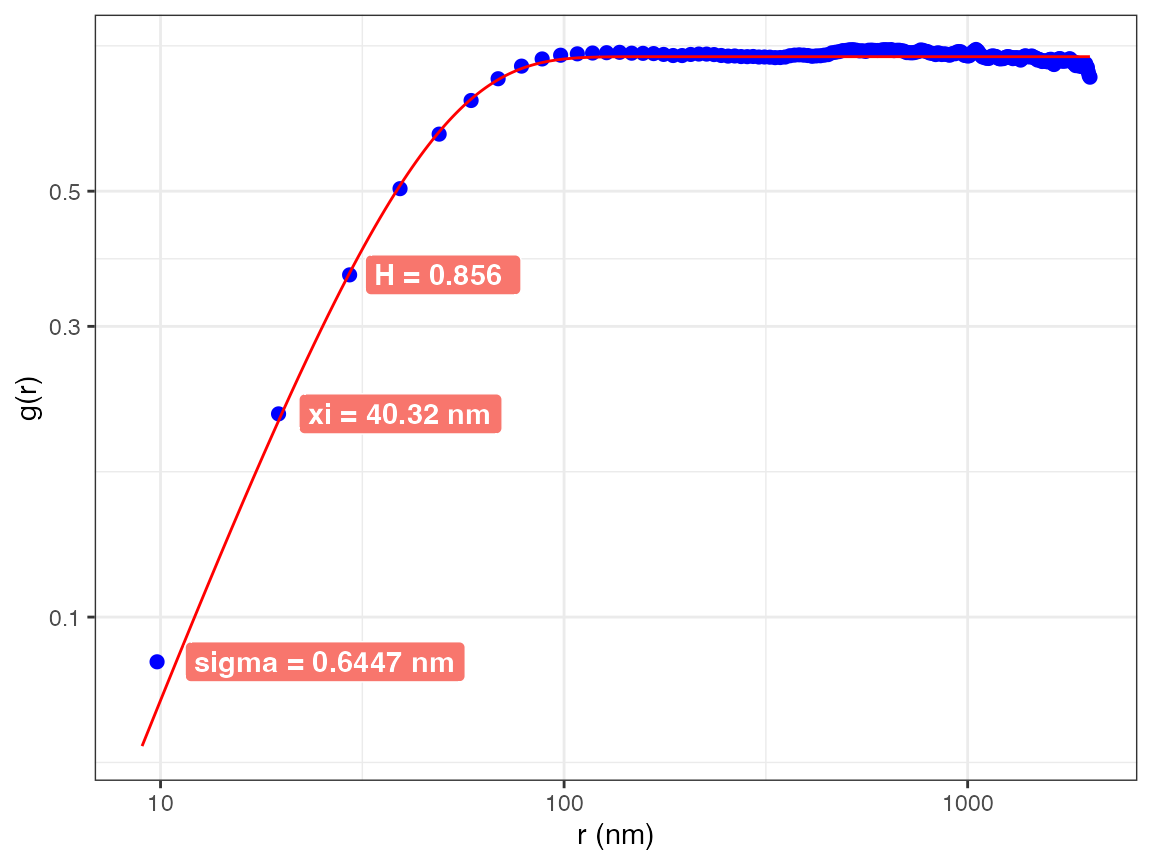
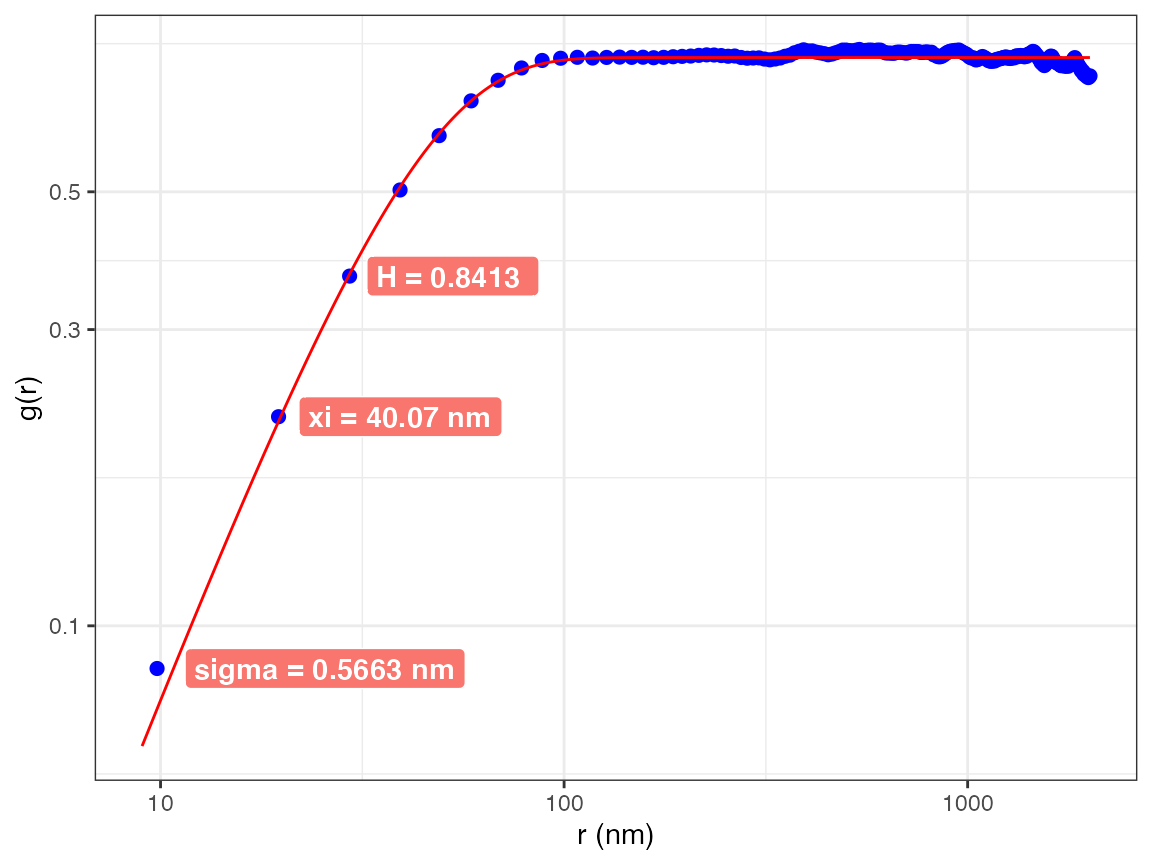
improve HHCF

diff --git a/docs/reference/get.Hsd.html b/docs/reference/get.Hsd.html
@@ -1,5 +1,5 @@
 <!DOCTYPE html>
-<!-- Generated by pkgdown: do not edit by hand --><html lang="en"><head><meta http-equiv="Content-Type" content="text/html; charset=UTF-8"><meta charset="utf-8"><meta http-equiv="X-UA-Compatible" content="IE=edge"><meta name="viewport" content="width=device-width, initial-scale=1.0"><title>computes the standard deviation in height Hsd — get.Hsd • nanoAFMr</title><!-- favicons --><link rel="icon" type="image/png" sizes="16x16" href="../favicon-16x16.png"><link rel="icon" type="image/png" sizes="32x32" href="../favicon-32x32.png"><link rel="apple-touch-icon" type="image/png" sizes="180x180" href="../apple-touch-icon.png"><link rel="apple-touch-icon" type="image/png" sizes="120x120" href="../apple-touch-icon-120x120.png"><link rel="apple-touch-icon" type="image/png" sizes="76x76" href="../apple-touch-icon-76x76.png"><link rel="apple-touch-icon" type="image/png" sizes="60x60" href="../apple-touch-icon-60x60.png"><!-- jquery --><script src="https://cdnjs.cloudflare.com/ajax/libs/jquery/3.4.1/jquery.min.js" integrity="sha256-CSXorXvZcTkaix6Yvo6HppcZGetbYMGWSFlBw8HfCJo=" crossorigin="anonymous"></script><!-- Bootstrap --><link rel="stylesheet" href="https://cdnjs.cloudflare.com/ajax/libs/twitter-bootstrap/3.4.1/css/bootstrap.min.css" integrity="sha256-bZLfwXAP04zRMK2BjiO8iu9pf4FbLqX6zitd+tIvLhE=" crossorigin="anonymous"><script src="https://cdnjs.cloudflare.com/ajax/libs/twitter-bootstrap/3.4.1/js/bootstrap.min.js" integrity="sha256-nuL8/2cJ5NDSSwnKD8VqreErSWHtnEP9E7AySL+1ev4=" crossorigin="anonymous"></script><!-- bootstrap-toc --><link rel="stylesheet" href="../bootstrap-toc.css"><script src="../bootstrap-toc.js"></script><!-- Font Awesome icons --><link rel="stylesheet" href="https://cdnjs.cloudflare.com/ajax/libs/font-awesome/5.12.1/css/all.min.css" integrity="sha256-mmgLkCYLUQbXn0B1SRqzHar6dCnv9oZFPEC1g1cwlkk=" crossorigin="anonymous"><link rel="stylesheet" href="https://cdnjs.cloudflare.com/ajax/libs/font-awesome/5.12.1/css/v4-shims.min.css" integrity="sha256-wZjR52fzng1pJHwx4aV2AO3yyTOXrcDW7jBpJtTwVxw=" crossorigin="anonymous"><!-- clipboard.js --><script src="https://cdnjs.cloudflare.com/ajax/libs/clipboard.js/2.0.6/clipboard.min.js" integrity="sha256-inc5kl9MA1hkeYUt+EC3BhlIgyp/2jDIyBLS6k3UxPI=" crossorigin="anonymous"></script><!-- headroom.js --><script src="https://cdnjs.cloudflare.com/ajax/libs/headroom/0.11.0/headroom.min.js" integrity="sha256-AsUX4SJE1+yuDu5+mAVzJbuYNPHj/WroHuZ8Ir/CkE0=" crossorigin="anonymous"></script><script src="https://cdnjs.cloudflare.com/ajax/libs/headroom/0.11.0/jQuery.headroom.min.js" integrity="sha256-ZX/yNShbjqsohH1k95liqY9Gd8uOiE1S4vZc+9KQ1K4=" crossorigin="anonymous"></script><!-- pkgdown --><link href="../pkgdown.css" rel="stylesheet"><script src="../pkgdown.js"></script><meta property="og:title" content="computes the standard deviation in height Hsd — get.Hsd"><meta property="og:description" content="computes the standard deviation in height Hsd"><!-- mathjax --><script src="https://cdnjs.cloudflare.com/ajax/libs/mathjax/2.7.5/MathJax.js" integrity="sha256-nvJJv9wWKEm88qvoQl9ekL2J+k/RWIsaSScxxlsrv8k=" crossorigin="anonymous"></script><script src="https://cdnjs.cloudflare.com/ajax/libs/mathjax/2.7.5/config/TeX-AMS-MML_HTMLorMML.js" integrity="sha256-84DKXVJXs0/F8OTMzX4UR909+jtl4G7SPypPavF+GfA=" crossorigin="anonymous"></script><!--[if lt IE 9]>
+<!-- Generated by pkgdown: do not edit by hand --><html lang="en"><head><meta http-equiv="Content-Type" content="text/html; charset=UTF-8"><meta charset="utf-8"><meta http-equiv="X-UA-Compatible" content="IE=edge"><meta name="viewport" content="width=device-width, initial-scale=1.0"><title>Computes the standard deviation in height Hsd — get.Hsd • nanoAFMr</title><!-- favicons --><link rel="icon" type="image/png" sizes="16x16" href="../favicon-16x16.png"><link rel="icon" type="image/png" sizes="32x32" href="../favicon-32x32.png"><link rel="apple-touch-icon" type="image/png" sizes="180x180" href="../apple-touch-icon.png"><link rel="apple-touch-icon" type="image/png" sizes="120x120" href="../apple-touch-icon-120x120.png"><link rel="apple-touch-icon" type="image/png" sizes="76x76" href="../apple-touch-icon-76x76.png"><link rel="apple-touch-icon" type="image/png" sizes="60x60" href="../apple-touch-icon-60x60.png"><!-- jquery --><script src="https://cdnjs.cloudflare.com/ajax/libs/jquery/3.4.1/jquery.min.js" integrity="sha256-CSXorXvZcTkaix6Yvo6HppcZGetbYMGWSFlBw8HfCJo=" crossorigin="anonymous"></script><!-- Bootstrap --><link rel="stylesheet" href="https://cdnjs.cloudflare.com/ajax/libs/twitter-bootstrap/3.4.1/css/bootstrap.min.css" integrity="sha256-bZLfwXAP04zRMK2BjiO8iu9pf4FbLqX6zitd+tIvLhE=" crossorigin="anonymous"><script src="https://cdnjs.cloudflare.com/ajax/libs/twitter-bootstrap/3.4.1/js/bootstrap.min.js" integrity="sha256-nuL8/2cJ5NDSSwnKD8VqreErSWHtnEP9E7AySL+1ev4=" crossorigin="anonymous"></script><!-- bootstrap-toc --><link rel="stylesheet" href="../bootstrap-toc.css"><script src="../bootstrap-toc.js"></script><!-- Font Awesome icons --><link rel="stylesheet" href="https://cdnjs.cloudflare.com/ajax/libs/font-awesome/5.12.1/css/all.min.css" integrity="sha256-mmgLkCYLUQbXn0B1SRqzHar6dCnv9oZFPEC1g1cwlkk=" crossorigin="anonymous"><link rel="stylesheet" href="https://cdnjs.cloudflare.com/ajax/libs/font-awesome/5.12.1/css/v4-shims.min.css" integrity="sha256-wZjR52fzng1pJHwx4aV2AO3yyTOXrcDW7jBpJtTwVxw=" crossorigin="anonymous"><!-- clipboard.js --><script src="https://cdnjs.cloudflare.com/ajax/libs/clipboard.js/2.0.6/clipboard.min.js" integrity="sha256-inc5kl9MA1hkeYUt+EC3BhlIgyp/2jDIyBLS6k3UxPI=" crossorigin="anonymous"></script><!-- headroom.js --><script src="https://cdnjs.cloudflare.com/ajax/libs/headroom/0.11.0/headroom.min.js" integrity="sha256-AsUX4SJE1+yuDu5+mAVzJbuYNPHj/WroHuZ8Ir/CkE0=" crossorigin="anonymous"></script><script src="https://cdnjs.cloudflare.com/ajax/libs/headroom/0.11.0/jQuery.headroom.min.js" integrity="sha256-ZX/yNShbjqsohH1k95liqY9Gd8uOiE1S4vZc+9KQ1K4=" crossorigin="anonymous"></script><!-- pkgdown --><link href="../pkgdown.css" rel="stylesheet"><script src="../pkgdown.js"></script><meta property="og:title" content="Computes the standard deviation in height Hsd — get.Hsd"><meta property="og:description" content="Computes the standard deviation in height Hsd"><!-- mathjax --><script src="https://cdnjs.cloudflare.com/ajax/libs/mathjax/2.7.5/MathJax.js" integrity="sha256-nvJJv9wWKEm88qvoQl9ekL2J+k/RWIsaSScxxlsrv8k=" crossorigin="anonymous"></script><script src="https://cdnjs.cloudflare.com/ajax/libs/mathjax/2.7.5/config/TeX-AMS-MML_HTMLorMML.js" integrity="sha256-84DKXVJXs0/F8OTMzX4UR909+jtl4G7SPypPavF+GfA=" crossorigin="anonymous"></script><!--[if lt IE 9]>
 <script src="https://oss.maxcdn.com/html5shiv/3.7.3/html5shiv.min.js"></script>
 <script src="https://oss.maxcdn.com/respond/1.4.2/respond.min.js"></script>
 <![endif]--></head><body data-spy="scroll" data-target="#toc">
@@ -17,7 +17,7 @@
       </button>
       <span class="navbar-brand">
         <a class="navbar-link" href="../index.html">nanoAFMr</a>
-        <span class="version label label-default" data-toggle="tooltip" data-placement="bottom" title="">2.1.4</span>
+        <span class="version label label-default" data-toggle="tooltip" data-placement="bottom" title="">2.1.5</span>
       </span>
     </div>
 
@@ -74,19 +74,25 @@
       </header><div class="row">
   <div class="col-md-9 contents">
     <div class="page-header">
-    <h1>computes the standard deviation in height Hsd</h1>
+    <h1>Computes the standard deviation in height Hsd</h1>
     <small class="dont-index">Source: <a href="https://github.com/thomasgredig/nanoAFMr/blob/HEAD/R/AFM.math.R" class="external-link"><code>R/AFM.math.R</code></a></small>
     <div class="hidden name"><code>get.Hsd.Rd</code></div>
     </div>
 
     <div class="ref-description">
-    <p>computes the standard deviation in height Hsd</p>
+    <p>Computes the standard deviation in height Hsd</p>
     </div>
 
     <div id="ref-usage">
     <div class="sourceCode"><pre class="sourceCode r"><code><span><span class="fu">get.Hsd</span><span class="op">(</span><span class="va">z</span><span class="op">)</span></span></code></pre></div>
     </div>
 
+    <div id="arguments">
+    <h2>Arguments</h2>
+    <dl><dt>z</dt>
+<dd><p>z component vector</p></dd>
+
+</dl></div>
 
   </div>
   <div class="col-md-3 hidden-xs hidden-sm" id="pkgdown-sidebar">

diff --git a/docs/reference/AFM.hhcf.html b/docs/reference/AFM.hhcf.html
@@ -31,7 +31,7 @@ Journal: J of Phys: Conf. Ser. Vol 417, p. 012069 (2013)."><!-- mathjax --><scri
       </button>
       <span class="navbar-brand">
         <a class="navbar-link" href="../index.html">nanoAFMr</a>
-        <span class="version label label-default" data-toggle="tooltip" data-placement="bottom" title="">2.1.4</span>
+        <span class="version label label-default" data-toggle="tooltip" data-placement="bottom" title="">2.1.5</span>
       </span>
     </div>
 
@@ -121,6 +121,7 @@ Journal: J of Phys: Conf. Ser. Vol 417, p. 012069 (2013).</p>
 <span>  degRes <span class="op">=</span> <span class="fl">100</span>,</span>
 <span>  r.percentage <span class="op">=</span> <span class="fl">80</span>,</span>
 <span>  xi.percentage <span class="op">=</span> <span class="fl">70</span>,</span>
+<span>  randomSeed <span class="op">=</span> <span class="cn">NA</span>,</span>
 <span>  allResults <span class="op">=</span> <span class="cn">FALSE</span>,</span>
 <span>  verbose <span class="op">=</span> <span class="cn">FALSE</span></span>
 <span><span class="op">)</span></span></code></pre></div>
@@ -137,7 +138,7 @@ Journal: J of Phys: Conf. Ser. Vol 417, p. 012069 (2013).</p>
 
 
 <dt>numIterations</dt>
-<dd><p>Number of iterations (must be &gt; 1000), but 1e6 recommended</p></dd>
+<dd><p>Number of iterations (must be &gt; 1000), but 10^6 recommended</p></dd>
 
 
 <dt>addFit</dt>
@@ -145,7 +146,7 @@ Journal: J of Phys: Conf. Ser. Vol 417, p. 012069 (2013).</p>
 
 
 <dt>dataOnly</dt>
-<dd><p>if <code>TRUE</code> returns data frame, otherwise returns a graph</p></dd>
+<dd><p>if <code>TRUE</code> returns data frame, otherwise returns a graph (OBSOLETE, use allResults)</p></dd>
 
 
 <dt>degRes</dt>
@@ -160,6 +161,10 @@ is no fit, the value can be reduced to 70 or 60.</p></dd>
 
 <dt>xi.percentage</dt>
 <dd><p>a number from 10 to 100 representing where correlation length could be found from maximum (used for fitting)</p></dd>
+
+
+<dt>randomSeed</dt>
+<dd><p>(optional) a large number, if set, the random numbers are seeded and the results are reproducible</p></dd>
 
 
 <dt>allResults</dt>
@@ -192,23 +197,23 @@ is no fit, the value can be reduced to 70 or 60.</p></dd>
 <span class="r-in"><span><span class="va">r</span> <span class="op">=</span> <span class="fu">AFM.hhcf</span><span class="op">(</span><span class="va">a</span>, numIterations <span class="op">=</span> <span class="fl">5e5</span>, allResults <span class="op">=</span> <span class="cn">TRUE</span><span class="op">)</span></span></span>
 <span class="r-in"><span><span class="fu"><a href="https://rdrr.io/r/utils/head.html" class="external-link">head</a></span><span class="op">(</span><span class="va">r</span><span class="op">$</span><span class="va">data</span><span class="op">)</span>        <span class="co"># output HHCF data</span></span></span>
 <span class="r-out co"><span class="r-pr">#&gt;</span>        r.nm          g    num</span>
-<span class="r-out co"><span class="r-pr">#&gt;</span> 1  9.803922 0.08519146 498687</span>
-<span class="r-out co"><span class="r-pr">#&gt;</span> 2 19.607843 0.21684526 496546</span>
-<span class="r-out co"><span class="r-pr">#&gt;</span> 3 29.411765 0.36544430 494211</span>
-<span class="r-out co"><span class="r-pr">#&gt;</span> 4 39.215686 0.50351242 491798</span>
-<span class="r-out co"><span class="r-pr">#&gt;</span> 5 49.019608 0.61648855 489329</span>
-<span class="r-out co"><span class="r-pr">#&gt;</span> 6 58.823529 0.70045206 486844</span>
+<span class="r-out co"><span class="r-pr">#&gt;</span> 1  9.803922 0.08452306 498699</span>
+<span class="r-out co"><span class="r-pr">#&gt;</span> 2 19.607843 0.21620489 496520</span>
+<span class="r-out co"><span class="r-pr">#&gt;</span> 3 29.411765 0.36547558 494068</span>
+<span class="r-out co"><span class="r-pr">#&gt;</span> 4 39.215686 0.50361600 491628</span>
+<span class="r-out co"><span class="r-pr">#&gt;</span> 5 49.019608 0.61919836 489290</span>
+<span class="r-out co"><span class="r-pr">#&gt;</span> 6 58.823529 0.70584886 486799</span>
 <span class="r-in"><span><span class="fu"><a href="https://rdrr.io/r/utils/head.html" class="external-link">head</a></span><span class="op">(</span><span class="va">r</span><span class="op">$</span><span class="va">fitData</span><span class="op">)</span>     <span class="co"># fit data curve data</span></span></span>
 <span class="r-out co"><span class="r-pr">#&gt;</span>   r.nm          g</span>
-<span class="r-out co"><span class="r-pr">#&gt;</span> 1    9 0.06281123</span>
-<span class="r-out co"><span class="r-pr">#&gt;</span> 2   10 0.07454689</span>
-<span class="r-out co"><span class="r-pr">#&gt;</span> 3   11 0.08693107</span>
-<span class="r-out co"><span class="r-pr">#&gt;</span> 4   12 0.09990214</span>
-<span class="r-out co"><span class="r-pr">#&gt;</span> 5   13 0.11340139</span>
-<span class="r-out co"><span class="r-pr">#&gt;</span> 6   14 0.12737261</span>
+<span class="r-out co"><span class="r-pr">#&gt;</span> 1    9 0.06004836</span>
+<span class="r-out co"><span class="r-pr">#&gt;</span> 2   10 0.07157276</span>
+<span class="r-out co"><span class="r-pr">#&gt;</span> 3   11 0.08378527</span>
+<span class="r-out co"><span class="r-pr">#&gt;</span> 4   12 0.09662535</span>
+<span class="r-out co"><span class="r-pr">#&gt;</span> 5   13 0.11003465</span>
+<span class="r-out co"><span class="r-pr">#&gt;</span> 6   14 0.12395682</span>
 <span class="r-in"><span><span class="fu"><a href="https://rdrr.io/r/utils/head.html" class="external-link">head</a></span><span class="op">(</span><span class="va">r</span><span class="op">$</span><span class="va">fitParams</span><span class="op">)</span>   <span class="co"># output fit parameters</span></span></span>
-<span class="r-out co"><span class="r-pr">#&gt;</span>         2ss       xi        H     2ss.err    xi.err      H.err</span>
-<span class="r-out co"><span class="r-pr">#&gt;</span> 1 0.8210304 39.92848 1.698742 0.001391181 0.7496387 0.07826829</span>
+<span class="r-out co"><span class="r-pr">#&gt;</span>       sigma       xi        H    sigma.err    xi.err      H.err</span>
+<span class="r-out co"><span class="r-pr">#&gt;</span> 1 0.6402772 39.63359 1.737834 0.0004979563 0.6779398 0.07445197</span>
 <span class="r-in"><span><span class="va">r</span><span class="op">$</span><span class="va">graph</span>             <span class="co"># output ggplot2 graph</span></span></span>
 <span class="r-plt img"><img src="AFM.hhcf-1.png" alt="" width="700" height="433"></span>
 <span class="r-in"><span></span></span>

diff --git a/docs/articles/HHCF.html b/docs/articles/HHCF.html
@@ -39,7 +39,7 @@
       </button>
       <span class="navbar-brand">
         <a class="navbar-link" href="../index.html">nanoAFMr</a>
-        <span class="version label label-default" data-toggle="tooltip" data-placement="bottom" title="">2.1.4</span>
+        <span class="version label label-default" data-toggle="tooltip" data-placement="bottom" title="">2.1.5</span>
       </span>
     </div>
 
@@ -117,7 +117,6 @@
     
 <div class="sourceCode" id="cb1"><pre class="downlit sourceCode r">
 <code class="sourceCode R"><span><span class="kw"><a href="https://rdrr.io/r/base/library.html" class="external-link">library</a></span><span class="op">(</span><span class="va"><a href="https://thomasgredig.github.io/nanoAFMr/" class="external-link">nanoAFMr</a></span><span class="op">)</span></span>
-<span><span class="co">#&gt; Please cite nanoAFMr ,see https://doi.org/10.5281/zenodo.7464877</span></span>
 <span><span class="kw"><a href="https://rdrr.io/r/base/library.html" class="external-link">library</a></span><span class="op">(</span><span class="va"><a href="https://ggplot2.tidyverse.org" class="external-link">ggplot2</a></span><span class="op">)</span></span></code></pre></div>
 <p>The Height-Height Correlation Function is discussed in the
 publication: <a href="http://iopscience.iop.org/article/10.1088/1742-6596/417/1/012069" class="external-link">Height-Height
@@ -172,32 +171,32 @@ if you export all results from the function</p>
 <col width="13%">
 </colgroup>
 <thead><tr class="header">
-<th align="center">2ss</th>
+<th align="center">sigma</th>
 <th align="center">xi</th>
 <th align="center">H</th>
-<th align="center">2ss.err</th>
+<th align="center">sigma.err</th>
 <th align="center">xi.err</th>
 <th align="center">H.err</th>
 </tr></thead>
 <tbody><tr class="odd">
-<td align="center">0.8242</td>
-<td align="center">39.77</td>
-<td align="center">1.718</td>
-<td align="center">0.0009714</td>
-<td align="center">0.5174</td>
-<td align="center">0.05542</td>
+<td align="center">0.6364</td>
+<td align="center">39.09</td>
+<td align="center">1.727</td>
+<td align="center">0.0004624</td>
+<td align="center">0.631</td>
+<td align="center">0.06946</td>
 </tr></tbody>
 </table>
 <div class="sourceCode" id="cb4"><pre class="downlit sourceCode r">
 <code class="sourceCode R"><span><span class="co">## show the HHCF data</span></span>
 <span><span class="fu"><a href="https://rdrr.io/r/utils/head.html" class="external-link">head</a></span><span class="op">(</span><span class="va">h</span><span class="op">$</span><span class="va">data</span><span class="op">)</span></span>
 <span><span class="co">#&gt;        r.nm          g    num</span></span>
-<span><span class="co">#&gt; 1  9.803922 0.08503002 199488</span></span>
-<span><span class="co">#&gt; 2 19.607843 0.21807794 198621</span></span>
-<span><span class="co">#&gt; 3 29.411765 0.36801837 197670</span></span>
-<span><span class="co">#&gt; 4 39.215686 0.50491011 196693</span></span>
-<span><span class="co">#&gt; 5 49.019608 0.62018717 195710</span></span>
-<span><span class="co">#&gt; 6 58.823529 0.70603160 194744</span></span>
+<span><span class="co">#&gt; 1  9.803922 0.08409641 199449</span></span>
+<span><span class="co">#&gt; 2 19.607843 0.21657314 198558</span></span>
+<span><span class="co">#&gt; 3 29.411765 0.36804988 197547</span></span>
+<span><span class="co">#&gt; 4 39.215686 0.50742206 196575</span></span>
+<span><span class="co">#&gt; 5 49.019608 0.61913464 195574</span></span>
+<span><span class="co">#&gt; 6 58.823529 0.70170317 194566</span></span>
 <span><span class="co">## display the entire graph</span></span>
 <span><span class="va">h</span><span class="op">$</span><span class="va">graph</span></span></code></pre></div>
 <p><img src="HHCF_files/figure-html/unnamed-chunk-3-1.png" width="576"></p>

diff --git a/docs/reference/AFM.readDB.html b/docs/reference/AFM.readDB.html
@@ -3,7 +3,7 @@
 Since the database can only store tables, the image is split into two tables,
 one for the data and one for the metadata that contains the description, units
 and size of the image. This function puts the image back together using specific
-tables in the database; this function only works with AFM.writeDB()"><!-- mathjax --><script src="https://cdnjs.cloudflare.com/ajax/libs/mathjax/2.7.5/MathJax.js" integrity="sha256-nvJJv9wWKEm88qvoQl9ekL2J+k/RWIsaSScxxlsrv8k=" crossorigin="anonymous"></script><script src="https://cdnjs.cloudflare.com/ajax/libs/mathjax/2.7.5/config/TeX-AMS-MML_HTMLorMML.js" integrity="sha256-84DKXVJXs0/F8OTMzX4UR909+jtl4G7SPypPavF+GfA=" crossorigin="anonymous"></script><!--[if lt IE 9]>
+tables in the database; this function only works with AFM.writeDB"><!-- mathjax --><script src="https://cdnjs.cloudflare.com/ajax/libs/mathjax/2.7.5/MathJax.js" integrity="sha256-nvJJv9wWKEm88qvoQl9ekL2J+k/RWIsaSScxxlsrv8k=" crossorigin="anonymous"></script><script src="https://cdnjs.cloudflare.com/ajax/libs/mathjax/2.7.5/config/TeX-AMS-MML_HTMLorMML.js" integrity="sha256-84DKXVJXs0/F8OTMzX4UR909+jtl4G7SPypPavF+GfA=" crossorigin="anonymous"></script><!--[if lt IE 9]>
 <script src="https://oss.maxcdn.com/html5shiv/3.7.3/html5shiv.min.js"></script>
 <script src="https://oss.maxcdn.com/respond/1.4.2/respond.min.js"></script>
 <![endif]--></head><body data-spy="scroll" data-target="#toc">
@@ -21,7 +21,7 @@ tables in the database; this function only works with AFM.writeDB()"><!-- mathja
       </button>
       <span class="navbar-brand">
         <a class="navbar-link" href="../index.html">nanoAFMr</a>
-        <span class="version label label-default" data-toggle="tooltip" data-placement="bottom" title="">2.1.4</span>
+        <span class="version label label-default" data-toggle="tooltip" data-placement="bottom" title="">2.1.5</span>
       </span>
     </div>
 
@@ -88,7 +88,7 @@ tables in the database; this function only works with AFM.writeDB()"><!-- mathja
 Since the database can only store tables, the image is split into two tables,
 one for the data and one for the metadata that contains the description, units
 and size of the image. This function puts the image back together using specific
-tables in the database; this function only works with <code><a href="AFM.writeDB.html">AFM.writeDB()</a></code></p>
+tables in the database; this function only works with <code><a href="AFM.writeDB.html">AFM.writeDB</a></code></p>
     </div>
 
     <div id="ref-usage">
@@ -117,7 +117,7 @@ tables in the database; this function only works with <code><a href="AFM.writeDB
     </div>
     <div id="see-also">
     <h2>See also</h2>
-    <div class="dont-index"><p>[<code><a href="AFM.writeDB.html">AFM.writeDB()</a></code>]</p></div>
+    <div class="dont-index"><p>[<code><a href="AFM.writeDB.html">AFM.writeDB</a></code>]</p></div>
     </div>
     <div id="author">
     <h2>Author</h2>

diff --git a/docs/authors.html b/docs/authors.html
@@ -17,7 +17,7 @@
       </button>
       <span class="navbar-brand">
         <a class="navbar-link" href="index.html">nanoAFMr</a>
-        <span class="version label label-default" data-toggle="tooltip" data-placement="bottom" title="">2.1.4</span>
+        <span class="version label label-default" data-toggle="tooltip" data-placement="bottom" title="">2.1.5</span>
       </span>
     </div>
 
@@ -94,7 +94,7 @@
 
     <p>Gredig T (2022).
 <em>R:nanoAFMr - AFM Import and Analysis Tool</em>.
-<a href="https://doi.org/10.5281/zenodo.7464877" class="external-link">doi:10.5281/zenodo.7464877</a>, R package version 2.1.4, <a href="https://doi.org/10.5281/zenodo.7464877" class="external-link">https://doi.org/10.5281/zenodo.7464877</a>. 
+<a href="https://doi.org/10.5281/zenodo.7464877" class="external-link">doi:10.5281/zenodo.7464877</a>, R package version 2.1.5, <a href="https://doi.org/10.5281/zenodo.7464877" class="external-link">https://doi.org/10.5281/zenodo.7464877</a>. 
 </p>
     <pre>@Manual{,
   title = {R:nanoAFMr - AFM Import and Analysis Tool},
@@ -102,7 +102,7 @@
   year = {2022},
   publisher = {Zenodo},
   version = {v2.1},
-  note = {R package version 2.1.4},
+  note = {R package version 2.1.5},
   url = {https://doi.org/10.5281/zenodo.7464877},
   doi = {10.5281/zenodo.7464877},
 }</pre>

diff --git a/docs/news/index.html b/docs/news/index.html
@@ -17,7 +17,7 @@
       </button>
       <span class="navbar-brand">
         <a class="navbar-link" href="../index.html">nanoAFMr</a>
-        <span class="version label label-default" data-toggle="tooltip" data-placement="bottom" title="">2.1.4</span>
+        <span class="version label label-default" data-toggle="tooltip" data-placement="bottom" title="">2.1.5</span>
       </span>
     </div>
 
@@ -78,6 +78,11 @@
       <small>Source: <a href="https://github.com/thomasgredig/nanoAFMr/blob/HEAD/NEWS.md" class="external-link"><code>NEWS.md</code></a></small>
     </div>
 
+    <div class="section level2">
+<h2 class="page-header" data-toc-text="2.1.5" id="nanoafmr-215">nanoAFMr 2.1.5<a class="anchor" aria-label="anchor" href="#nanoafmr-215"></a></h2>
+<ul><li>update documentation and HHCF return values in table</li>
+<li>add a random seed to the HHCF, so that results are reproducible</li>
+</ul></div>
     <div class="section level2">
 <h2 class="page-header" data-toc-text="2.1.4" id="nanoafmr-214">nanoAFMr 2.1.4<a class="anchor" aria-label="anchor" href="#nanoafmr-214"></a></h2>
 <ul><li>fix units for Park images (showed um instead of nm)</li>

diff --git a/docs/reference/index.html b/docs/reference/index.html
@@ -17,7 +17,7 @@
       </button>
       <span class="navbar-brand">
         <a class="navbar-link" href="../index.html">nanoAFMr</a>
-        <span class="version label label-default" data-toggle="tooltip" data-placement="bottom" title="">2.1.4</span>
+        <span class="version label label-default" data-toggle="tooltip" data-placement="bottom" title="">2.1.5</span>
       </span>
     </div>
 
@@ -180,7 +180,7 @@
       </tr><tr><td>
           <p><code><a href="get.Hsd.html">get.Hsd()</a></code> </p>
         </td>
-        <td><p>computes the standard deviation in height Hsd</p></td>
+        <td><p>Computes the standard deviation in height Hsd</p></td>
       </tr><tr><td>
           <p><code><a href="initialize-AFMdata-method.html">initialize(<i>&lt;AFMdata&gt;</i>)</a></code> </p>
         </td>

diff --git a/docs/reference/AFM.histogram.html b/docs/reference/AFM.histogram.html
@@ -18,7 +18,7 @@ and either output an image or a data table."><!-- mathjax --><script src="https:
       </button>
       <span class="navbar-brand">
         <a class="navbar-link" href="../index.html">nanoAFMr</a>
-        <span class="version label label-default" data-toggle="tooltip" data-placement="bottom" title="">2.1.4</span>
+        <span class="version label label-default" data-toggle="tooltip" data-placement="bottom" title="">2.1.5</span>
       </span>
     </div>
 

diff --git a/docs/reference/AFM.writeDB.html b/docs/reference/AFM.writeDB.html
@@ -20,7 +20,7 @@ exists, it will be overwritten."><!-- mathjax --><script src="https://cdnjs.clou
       </button>
       <span class="navbar-brand">
         <a class="navbar-link" href="../index.html">nanoAFMr</a>
-        <span class="version label label-default" data-toggle="tooltip" data-placement="bottom" title="">2.1.4</span>
+        <span class="version label label-default" data-toggle="tooltip" data-placement="bottom" title="">2.1.5</span>
       </span>
     </div>
 

diff --git a/docs/articles/index.html b/docs/articles/index.html
@@ -17,7 +17,7 @@
       </button>
       <span class="navbar-brand">
         <a class="navbar-link" href="../index.html">nanoAFMr</a>
-        <span class="version label label-default" data-toggle="tooltip" data-placement="bottom" title="">2.1.4</span>
+        <span class="version label label-default" data-toggle="tooltip" data-placement="bottom" title="">2.1.5</span>
       </span>
     </div>
 

diff --git a/docs/404.html b/docs/404.html
@@ -38,7 +38,7 @@
       </button>
       <span class="navbar-brand">
         <a class="navbar-link" href="index.html">nanoAFMr</a>
-        <span class="version label label-default" data-toggle="tooltip" data-placement="bottom" title="">2.1.4</span>
+        <span class="version label label-default" data-toggle="tooltip" data-placement="bottom" title="">2.1.5</span>
       </span>
     </div>
 

diff --git a/docs/index.html b/docs/index.html
@@ -48,7 +48,7 @@
       </button>
       <span class="navbar-brand">
         <a class="navbar-link" href="index.html">nanoAFMr</a>
-        <span class="version label label-default" data-toggle="tooltip" data-placement="bottom" title="">2.1.4</span>
+        <span class="version label label-default" data-toggle="tooltip" data-placement="bottom" title="">2.1.5</span>
       </span>
     </div>
 
